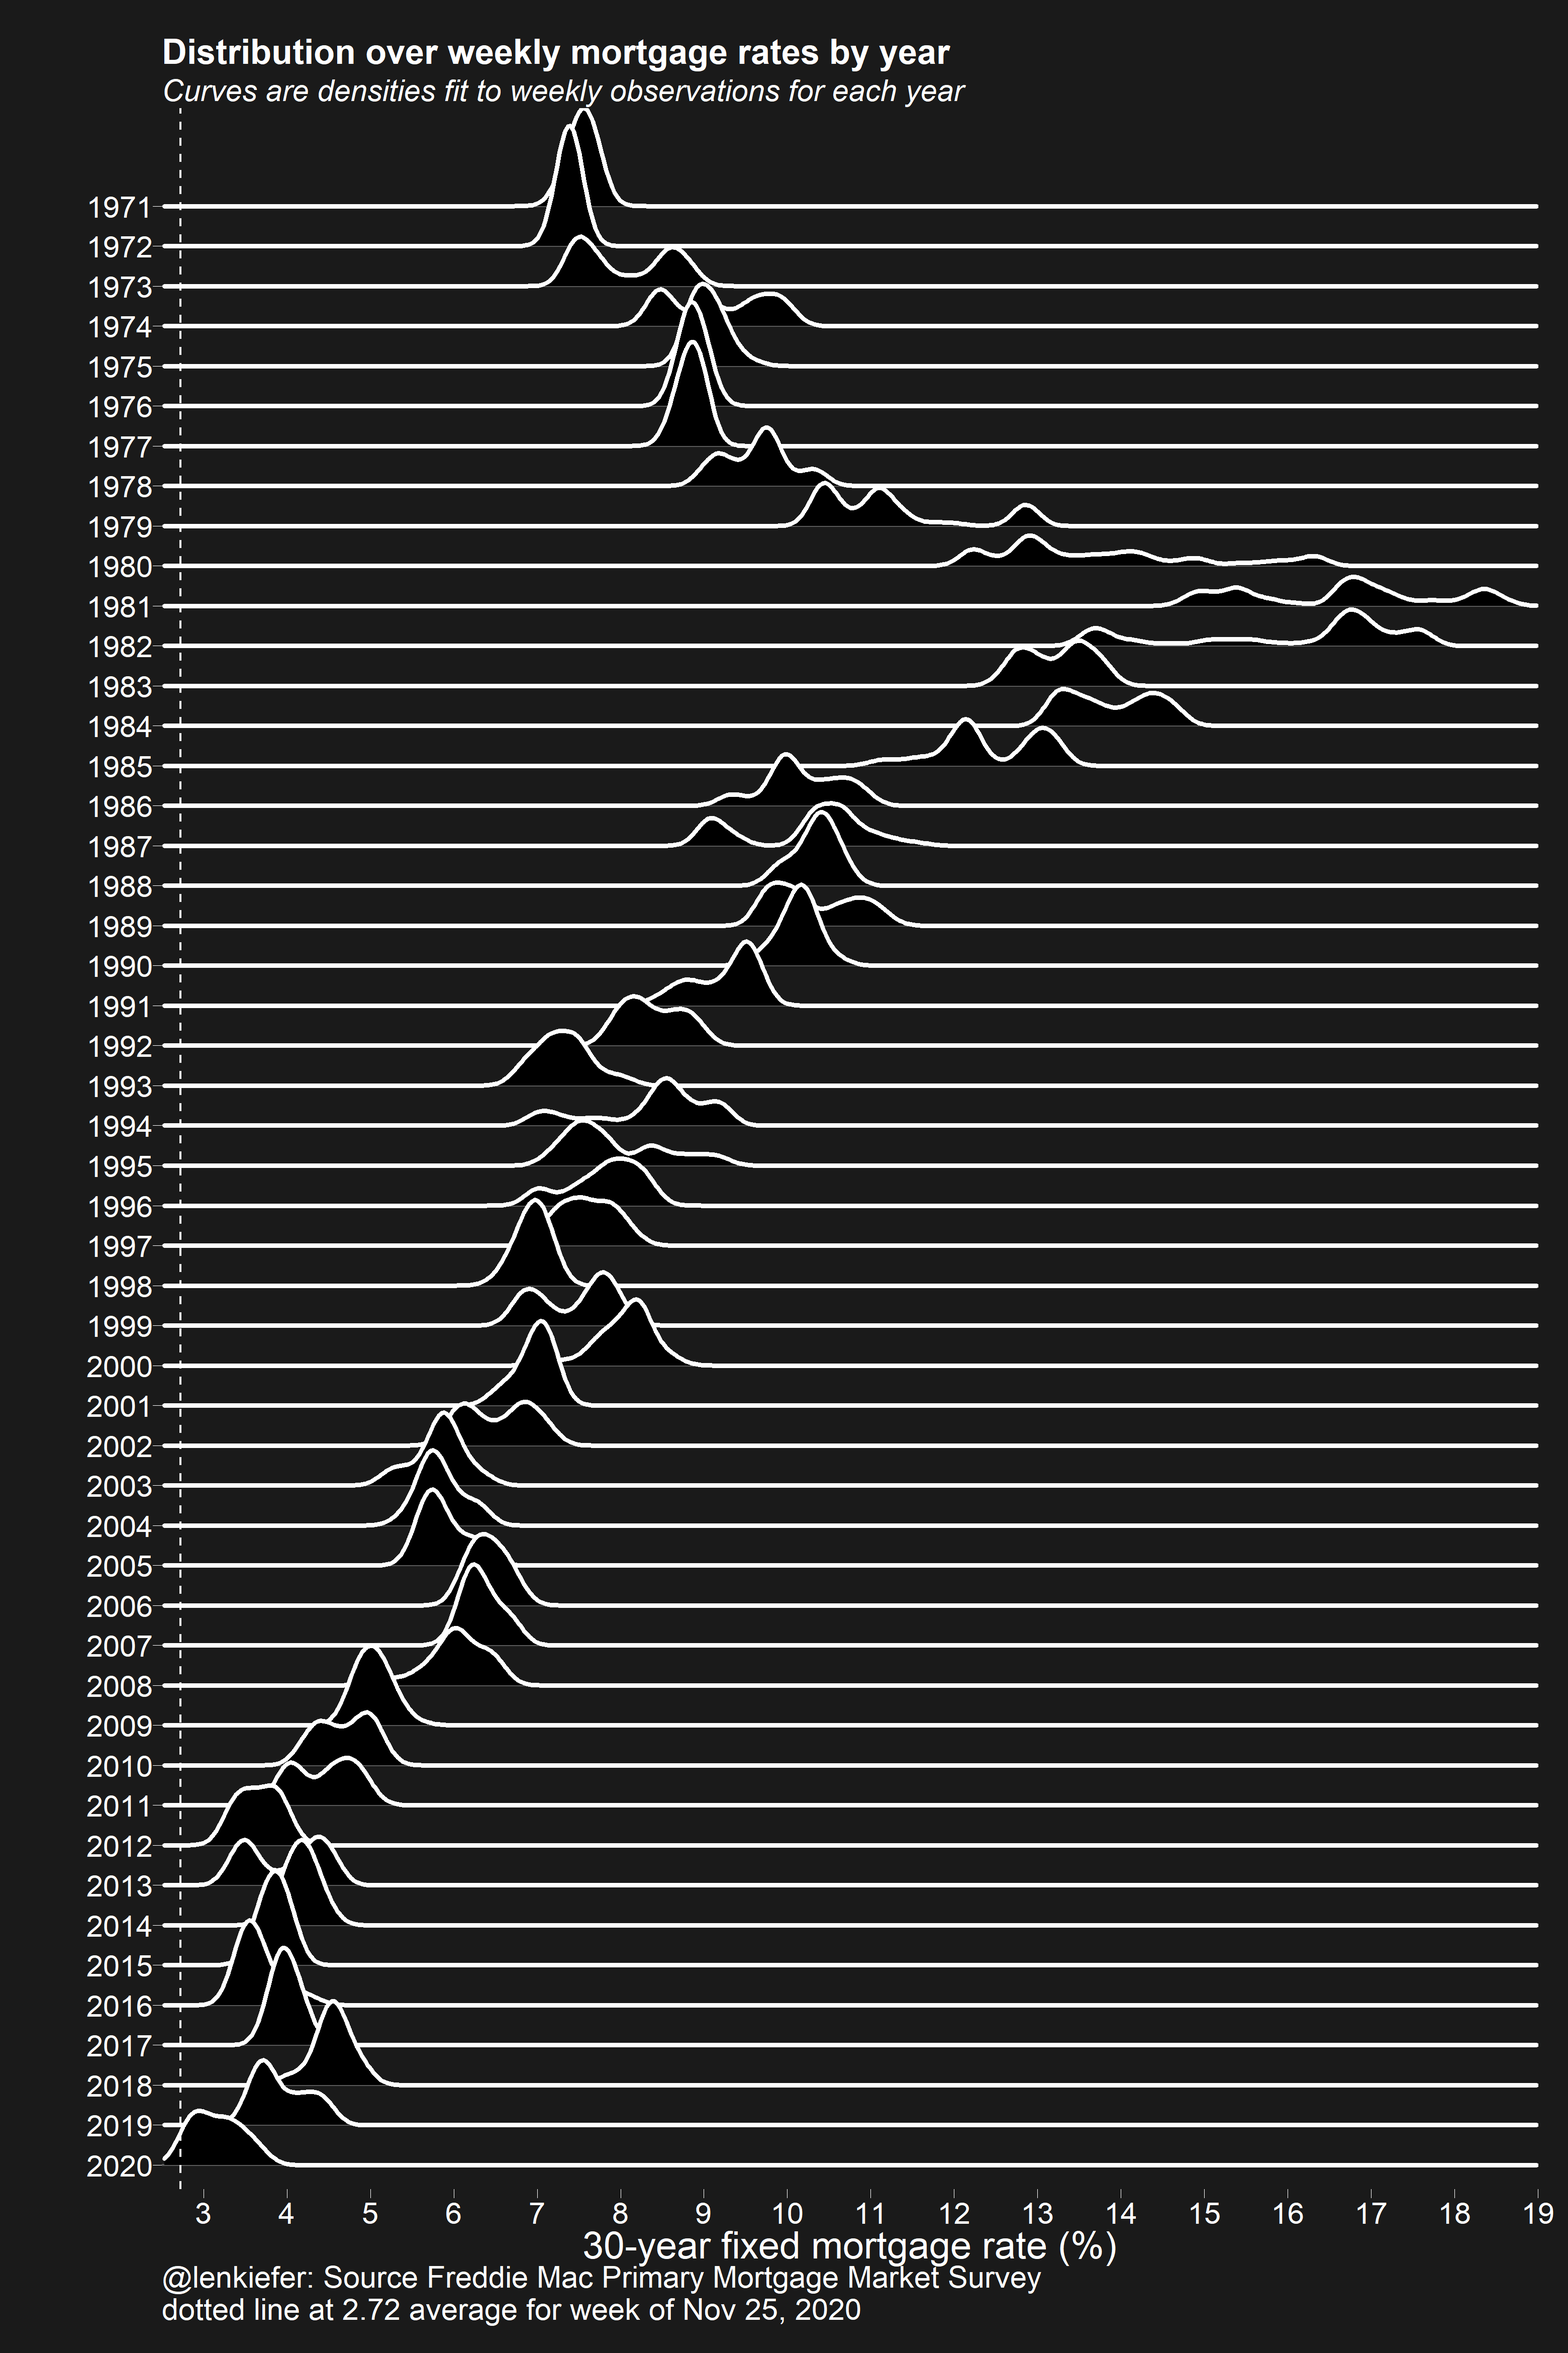
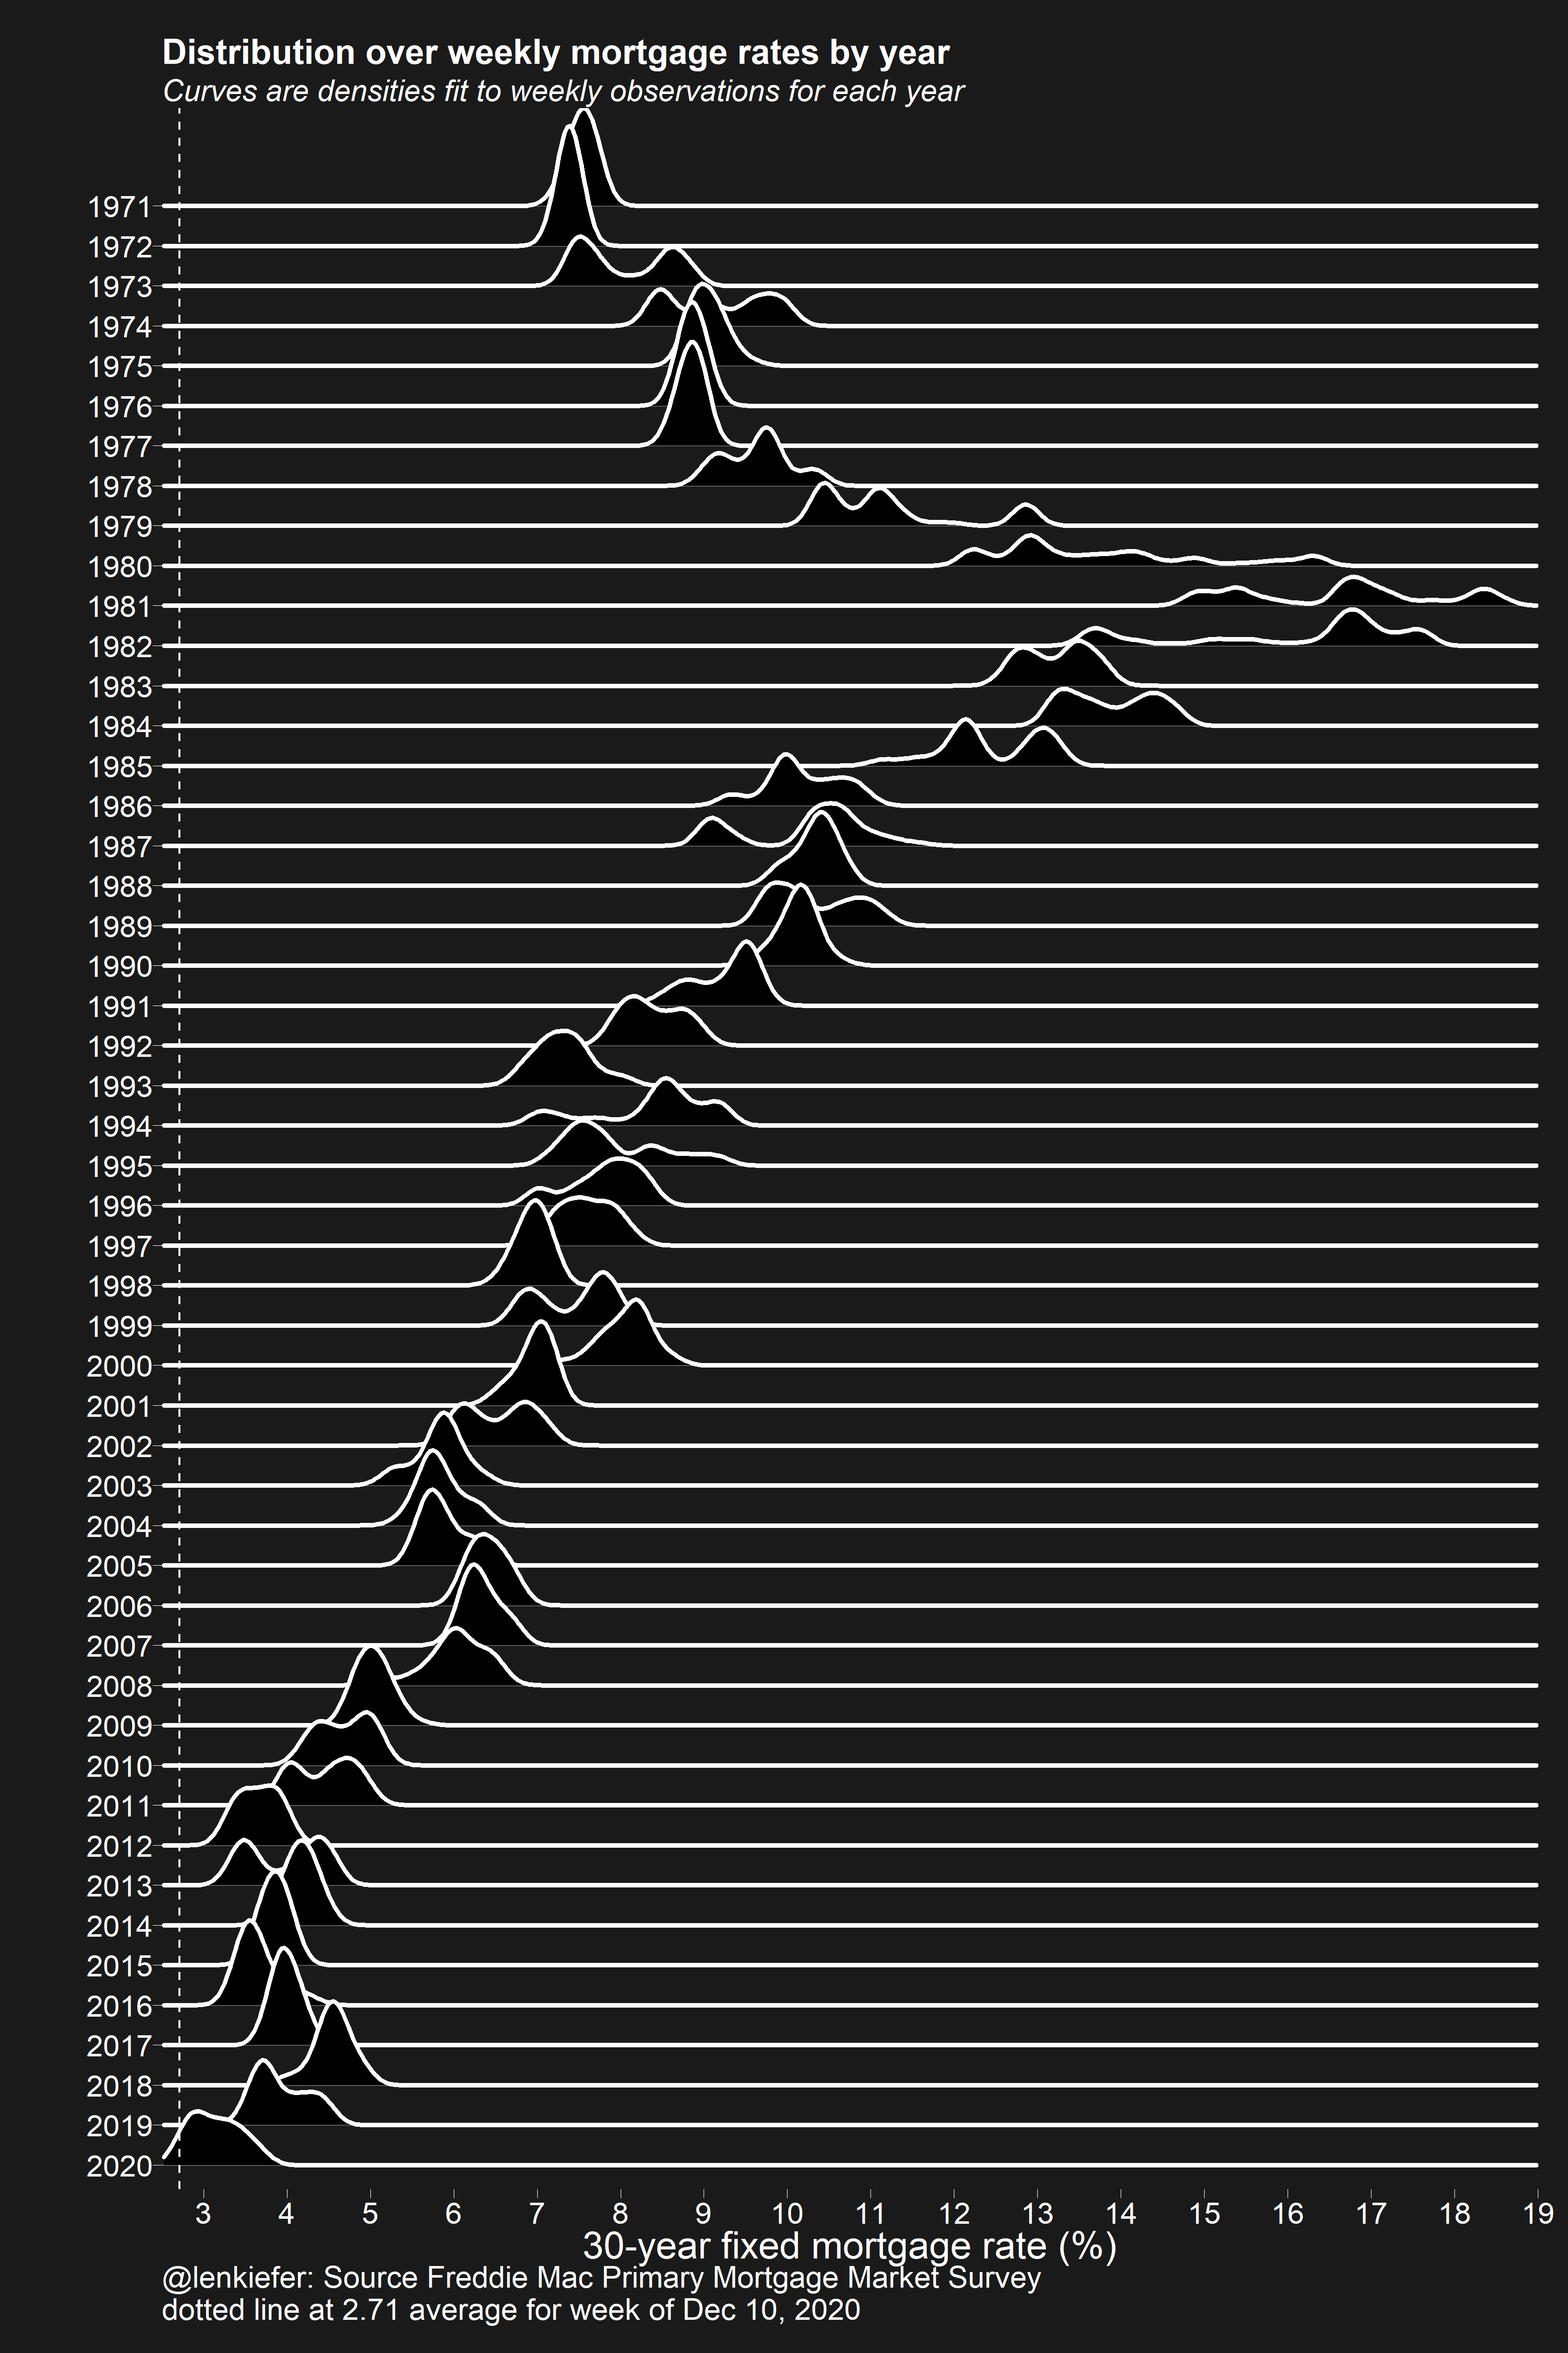
update viz dec 2020

Changed region(s): [[0.4353, 0.9671, 0.4974, 0.9983]]

diff --git a/2019/10/06/arima-for-ernie/index.html b/2019/10/06/arima-for-ernie/index.html
@@ -248,9 +248,10 @@
 <p>Early last Friday morning I was sitting in Palm Springs International Airport waiting to catch a flight back to Virginia. I had traveled out west to speak at the <a href="http://naglrep.com/2019/">2019 NAGLREP Conference</a>. This Friday happened to be jobs Friday, when the U.S. Bureau of Labor Statistics releases the <a href="https://www.bls.gov/news.release/empsit.nr0.htm">employment situation</a>. Jobs Fridays are busy on Twitter. Everybody seems eager to offer a perspective on what the latest jobs numbers mean for the U.S. economy.</p>
 <p>As I scrolled through my feed one Tweet caught my attention. A lot of people have thoughts on jobs Friday. Ernie Tedeschi ( <span class="citation">[@ernietedeschi]</span>(<a href="https://twitter.com/ernietedeschi" class="uri">https://twitter.com/ernietedeschi</a>)) usually has something interesting to say. Though I believe both Ernie and I live in the D.C. metro area, we haven’t met. Maybe one day I’ll be lucky enough to meet with him, but in the meantime I get a lot out of his analysis on Twitter.</p>
 <p>This Jobs Friday Ernie was replying to some other thread:</p>
-<blockquote class="twitter-tweet"><p lang="en" dir="ltr">I prefer looking Y-Y to eliminate more survey noise. Wage growth Y-Y has been flat or decelerating YTD. Something is either compositionally or fundamentally stunting wage growth this year. <a href="https://t.co/HEE48rHFYU">pic.twitter.com/HEE48rHFYU</a></p>&mdash; Ernie Tedeschi (@ernietedeschi) <a href="https://twitter.com/ernietedeschi/status/1180104423688822785?ref_src=twsrc%5Etfw">October 4, 2019</a></blockquote>
-<script async src="https://platform.twitter.com/widgets.js" charset="utf-8"></script>
-
+<blockquote>
+<p>I prefer looking Y-Y to eliminate more survey noise. Wage growth Y-Y has been flat or decelerating YTD. Something is either compositionally or fundamentally stunting wage growth this year. pic.twitter.com/HEE48rHFYU</p>
+</blockquote>
+<p>— Ernie Tedeschi (<span class="citation">@ernietedeschi</span>) October 4, 2019</p>
 <p>What caught my attention was something that I often do: transform data. When looking at time series data, it’s often helpful to do some sort of filtering. Every chart has embedded within it an implicit model about how the world works. This is especially true of time series plots. Any transformation you make can radically alter what the chart seems to tell you about the world.</p>
 <p>When my team brings me charts to help explain something they are working on, I try hard not to be pedantic or a chart scold, but sometimes I can’t just let it go. I’ve tried to mellow out and be clear that I’m being picky for a reason. But often, choices for time series plots are making strong claims about the world.</p>
 <p>When I looked at Ernie’s tweet, I wondered: what sort of world makes a 12-month percent change a better signal than a 3-month percent change? Let’s take a look at it. Per usual we will use <a href="https://www.r-project.org/">R</a>.</p>

diff --git a/2020/04/20/updated-favorite-data-visualizations/index.html b/2020/04/20/updated-favorite-data-visualizations/index.html
@@ -252,21 +252,21 @@
 <p>Your favorite chart isn’t here? Let me know and maybe I can add it.</p>
 <div id="mortgage-rates" class="section level1">
 <h1>Mortgage Rates</h1>
-<p><em>Last updated 2020-11-25</em></p>
+<p><em>Last updated 2020-12-10</em></p>
 <p>Post <a href="../../../../2019/10/10/visualizing-consumer-price-inflation-and-mortgage-rates/">Visualizing consumer price inflation and mortgage rates</a></p>
 <p><img src="../../../../img/favorites/mtg.png" style="width:550px"></p>
-<p><em>Last updated 2020-11-25</em></p>
+<p><em>Last updated 2020-12-10</em></p>
 <p>Post <a href="../../../../2020/04/30/mortgage-rates-hit-a-record-low/">Mortgage rates hit a record low</a>
 <strong>Another record low on 2020-11-25</strong></p>
 <p><img src="../../../../img/favorites/mtg_trend.png" style="width:550px"></p>
 <p><img src="../../../../img/favorites/mtg_trend.gif" style="width:550px"></p>
-<p><em>Last updated 2020-11-25</em></p>
+<p><em>Last updated 2020-12-10</em></p>
 <p>Post <a href="../../../../2020/10/23/chart-style-1979/">Chart Style 1979</a></p>
 <p><img src="../../../../img/favorites/bw_dist.png" style="width:550px"></p>
 </div>
 <div id="u.s.-employment-charts" class="section level1">
 <h1>U.S. Employment Charts</h1>
-<p><em>Last updated 2020-10-10</em></p>
+<p><em>Last updated 2020-12-10</em></p>
 <p>Post <a href="../../../../2020/06/06/presentation-quadfecta-and-jobs-friday-2020/">Jobs Friday June 2020</a></p>
 <p><img src="../../../../img/favorites/jg.png" style="width:450px"></p>
 <p><img src="../../../../img/favorites/cjg.png" style="width:450px"></p>
@@ -274,7 +274,7 @@
 </div>
 <div id="jobless-claims-animations" class="section level1">
 <h1>Jobless claims animations</h1>
-<p><em>Last updated 2020-11-25</em></p>
+<p><em>Last updated 2020-12-10</em></p>
 <p>Animated versions of my jobless claims charts.</p>
 <p>Post: <a href="../../../../2020/04/03/us-labor-market-update-april-2020/">Labor Market Update</a></p>
 <p><img src="../../../../img/favorites/ICSA.gif" style="width:550px"></p>
